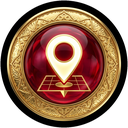
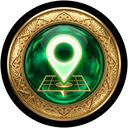
تخصيص أيقونة اللوكيشن الخضراء الزمردية عند توفر الموقع والحمراء الياقوتية عند عدم توفر الموقع

diff --git a/src/app/mandoub/mandoub-order-table.tsx b/src/app/mandoub/mandoub-order-table.tsx
@@ -379,7 +379,7 @@ function RedGlassOrbButton3D({
         title={title || "فتح موقع الزبون 📍"}
         className="w-5.5 h-5.5 sm:w-6 sm:h-6 rounded-full bg-no-repeat bg-contain select-none shrink-0 hover:scale-110 active:scale-95 transition cursor-pointer"
         style={{
-          backgroundImage: "url('/images/order-luxury/btn-open-location.webp?v=royal3D')",
+          backgroundImage: "url('/images/order-luxury/btn-open-location.webp?v=royalLocV2')",
         }}
       />
     );
@@ -391,7 +391,7 @@ function RedGlassOrbButton3D({
       title={title || "بدون لوكيشن"}
       className="w-5.5 h-5.5 sm:w-6 sm:h-6 rounded-full bg-no-repeat bg-contain select-none shrink-0 opacity-80 cursor-default"
       style={{
-        backgroundImage: "url('/images/order-luxury/btn-no-location.webp')",
+        backgroundImage: "url('/images/order-luxury/btn-no-location.webp?v=royalLocV2')",
       }}
     />
   );
@@ -1061,7 +1061,7 @@ function MandoubFullBlockCardGrid({
                             }}
                             className="w-5.5 h-5.5 sm:w-6.5 sm:h-6.5 rounded-full bg-no-repeat bg-contain select-none shrink-0 hover:scale-110 active:scale-95 transition cursor-pointer"
                             style={{
-                              backgroundImage: "url('/images/order-luxury/btn-open-location.webp?v=royal3D')",
+                              backgroundImage: "url('/images/order-luxury/btn-open-location.webp?v=royalLocV2')",
                             }}
                             title="خيارات الموقع على الخريطة 📍"
                           />
@@ -1074,7 +1074,7 @@ function MandoubFullBlockCardGrid({
                           <div
                             className="w-5.5 h-5.5 sm:w-6.5 sm:h-6.5 rounded-full bg-no-repeat bg-contain select-none shrink-0"
                             style={{
-                              backgroundImage: "url('/images/order-luxury/btn-no-location.webp')",
+                              backgroundImage: "url('/images/order-luxury/btn-no-location.webp?v=royalLocV2')",
                             }}
                             title="الزبون لا يملك لوكيشن ⚠"
                           />

diff --git a/src/app/layout.tsx b/src/app/layout.tsx
@@ -130,8 +130,8 @@ export default async function RootLayout({ children }: { children: React.ReactNo
         <link rel="preload" href="/images/order-luxury/btn-tasleem.webp" as="image" type="image/webp" />
         <link rel="preload" href="/images/order-luxury/btn-assign.webp" as="image" type="image/webp" />
         <link rel="preload" href="/images/order-luxury/btn-assign-empty.webp" as="image" type="image/webp" />
-        <link rel="preload" href="/images/order-luxury/btn-open-location.webp?v=royal3D" as="image" type="image/webp" />
-        <link rel="preload" href="/images/order-luxury/btn-no-location.webp" as="image" type="image/webp" />
+        <link rel="preload" href="/images/order-luxury/btn-open-location.webp?v=royalLocV2" as="image" type="image/webp" />
+        <link rel="preload" href="/images/order-luxury/btn-no-location.webp?v=royalLocV2" as="image" type="image/webp" />
         <link rel="preload" href="/images/order-luxury/btn-edit.webp?v=royal3D" as="image" type="image/webp" />
         <link rel="preload" href="/images/order-luxury/btn-reject.webp?v=royal3D" as="image" type="image/webp" />
         <link rel="preload" href="/images/order-luxury/btn-restore.webp?v=royal3D" as="image" type="image/webp" />
@@ -183,8 +183,8 @@ export default async function RootLayout({ children }: { children: React.ReactNo
                     '/images/order-luxury/btn-tasleem.webp',
                     '/images/order-luxury/btn-assign.webp',
                     '/images/order-luxury/btn-assign-empty.webp',
-                    '/images/order-luxury/btn-open-location.webp?v=royal3D',
-                    '/images/order-luxury/btn-no-location.webp',
+                    '/images/order-luxury/btn-open-location.webp?v=royalLocV2',
+                    '/images/order-luxury/btn-no-location.webp?v=royalLocV2',
                     '/images/order-luxury/btn-edit.webp?v=royal3D',
                     '/images/order-luxury/btn-reject.webp?v=royal3D',
                     '/images/order-luxury/btn-restore.webp?v=royal3D',

diff --git a/src/app/abo1stor3hlaa2kbr8-47/(dashboard)/orders/tracking/order-tracking-bulk-table.tsx b/src/app/abo1stor3hlaa2kbr8-47/(dashboard)/orders/tracking/order-tracking-bulk-table.tsx
@@ -724,7 +724,7 @@ function RedGlassOrbButton3D({
         title={title || "فتح موقع الزبون 📍"}
         className="w-5.5 h-5.5 sm:w-6 sm:h-6 rounded-full bg-no-repeat bg-contain select-none shrink-0 hover:scale-110 active:scale-95 transition cursor-pointer"
         style={{
-          backgroundImage: "url('/images/order-luxury/btn-open-location.webp?v=royal3D')",
+          backgroundImage: "url('/images/order-luxury/btn-open-location.webp?v=royalLocV2')",
         }}
       />
     );
@@ -736,7 +736,7 @@ function RedGlassOrbButton3D({
       title={title || "بدون لوكيشن"}
       className="w-5.5 h-5.5 sm:w-6 sm:h-6 rounded-full bg-no-repeat bg-contain select-none shrink-0 opacity-80 cursor-default"
       style={{
-        backgroundImage: "url('/images/order-luxury/btn-no-location.webp')",
+        backgroundImage: "url('/images/order-luxury/btn-no-location.webp?v=royalLocV2')",
       }}
     />
   );
@@ -1172,7 +1172,7 @@ function TrackingCardsView({
                           <div
                             className="w-5 h-5 sm:w-6 sm:h-6 rounded-full bg-no-repeat bg-contain select-none shrink-0"
                             style={{
-                              backgroundImage: "url('/images/order-luxury/btn-no-location.webp')",
+                              backgroundImage: "url('/images/order-luxury/btn-no-location.webp?v=royalLocV2')",
                             }}
                             title="الزبون لا يملك لوكيشن ⚠"
                           />

diff --git a/src/app/preparer/preparer-order-table.tsx b/src/app/preparer/preparer-order-table.tsx
@@ -150,7 +150,7 @@ function RedGlassOrbButton3D({
         title={title || "فتح موقع الزبون 📍"}
         className="w-5.5 h-5.5 sm:w-6.5 sm:h-6.5 rounded-full bg-no-repeat bg-contain select-none shrink-0 hover:scale-110 active:scale-95 transition cursor-pointer"
         style={{
-          backgroundImage: "url('/images/order-luxury/btn-open-location.webp?v=royal3D')",
+          backgroundImage: "url('/images/order-luxury/btn-open-location.webp?v=royalLocV2')",
         }}
       />
     );
@@ -162,7 +162,7 @@ function RedGlassOrbButton3D({
       title={title || "بدون لوكيشن"}
       className="w-5.5 h-5.5 sm:w-6.5 sm:h-6.5 rounded-full bg-no-repeat bg-contain select-none shrink-0 opacity-80 cursor-default"
       style={{
-        backgroundImage: "url('/images/order-luxury/btn-no-location.webp')",
+        backgroundImage: "url('/images/order-luxury/btn-no-location.webp?v=royalLocV2')",
       }}
     />
   );
